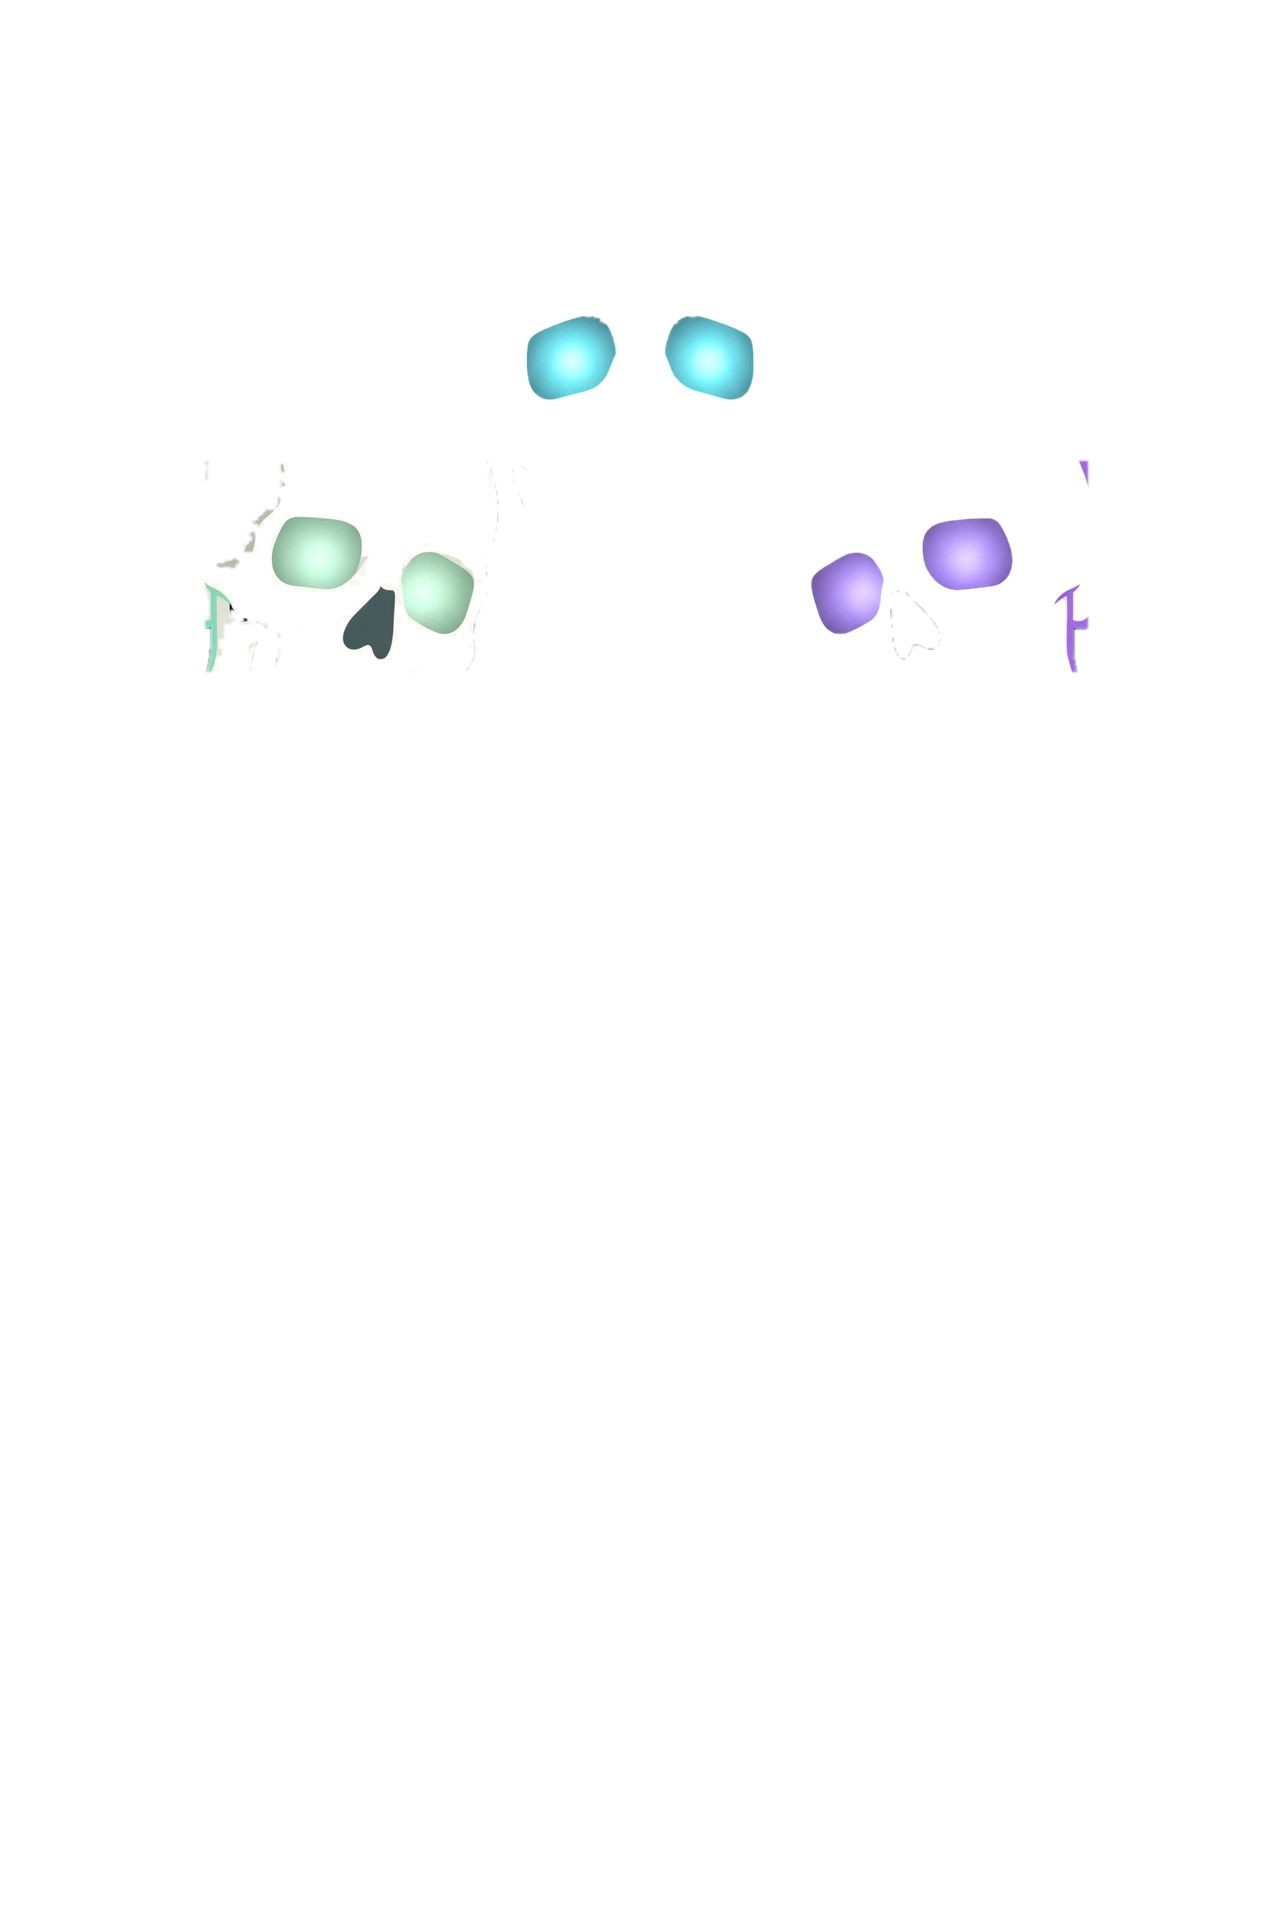
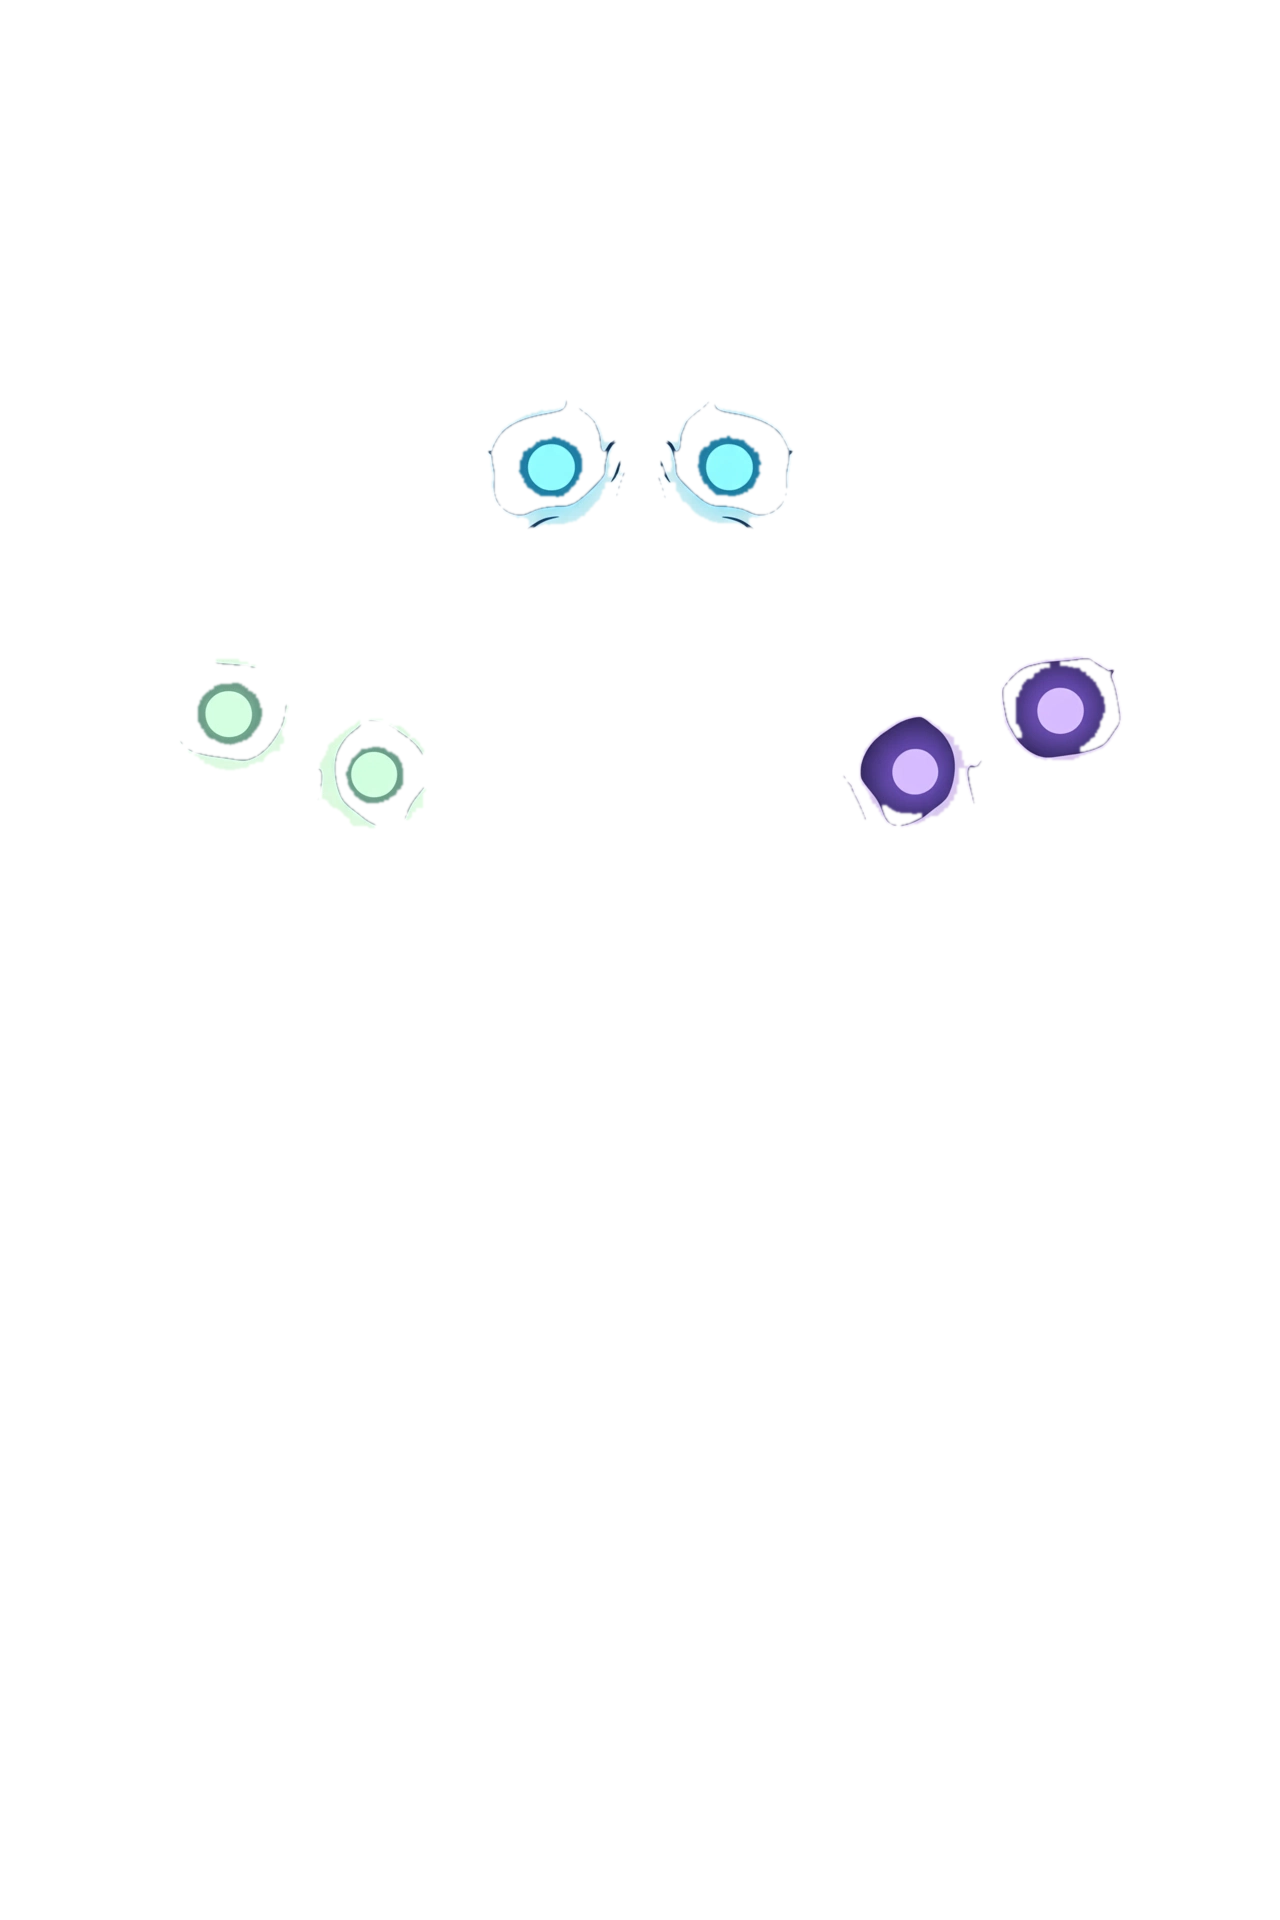
feat(skins): Skeleton Trio becomes busts — no whole bodies
Regenerated the trio plate as three big busts cropped at mid-torso:
skulls and glowing sockets are far larger, the center jaw visualizer
and ribcage seek get real room, spine volume rides the short
vertebra stub, playlist sits across the lower ribs. Same pipeline
(flood-filled alpha, segmented eye layer), CSS geometry re-measured
against the new plate. The full-body plate remains in history.

diff --git a/src/renderer/style.css b/src/renderer/style.css
@@ -1287,10 +1287,10 @@ input[type="range"]::-moz-range-thumb {
 }
 .skeleton-trio-skin .tr-eyes {
   position: absolute;
-  left: 10%;
-  top: 5%;
-  width: 76%;
-  height: 33%;
+  left: 3%;
+  top: 10%;
+  width: 94%;
+  height: 42%;
   padding: 0;
   background: transparent;
   border: none;
@@ -1306,20 +1306,20 @@ input[type="range"]::-moz-range-thumb {
   opacity: 0;
   transition: opacity 0.35s ease;
   background:
-    radial-gradient(circle at 24.5% 29.2%, rgba(150, 255, 205, 0.55), rgba(150, 255, 205, 0.15) 4%, transparent 7%),
-    radial-gradient(circle at 34.3% 30.3%, rgba(150, 255, 205, 0.55), rgba(150, 255, 205, 0.15) 4%, transparent 7%),
-    radial-gradient(circle at 45.2% 17.9%, rgba(110, 220, 255, 0.6), rgba(110, 220, 255, 0.16) 4.5%, transparent 7.5%),
-    radial-gradient(circle at 55.1% 17.9%, rgba(110, 220, 255, 0.6), rgba(110, 220, 255, 0.16) 4.5%, transparent 7.5%),
-    radial-gradient(circle at 65.8% 30.3%, rgba(185, 150, 255, 0.55), rgba(185, 150, 255, 0.15) 4%, transparent 7%),
-    radial-gradient(circle at 75.7% 29.2%, rgba(185, 150, 255, 0.55), rgba(185, 150, 255, 0.15) 4%, transparent 7%);
+    radial-gradient(circle at 17.8% 37.8%, rgba(150, 255, 205, 0.55), rgba(150, 255, 205, 0.15) 4.5%, transparent 8%),
+    radial-gradient(circle at 29.8% 39.8%, rgba(150, 255, 205, 0.55), rgba(150, 255, 205, 0.15) 4.5%, transparent 8%),
+    radial-gradient(circle at 43.2% 23.8%, rgba(110, 220, 255, 0.6), rgba(110, 220, 255, 0.16) 5%, transparent 8.5%),
+    radial-gradient(circle at 56.8% 23.8%, rgba(110, 220, 255, 0.6), rgba(110, 220, 255, 0.16) 5%, transparent 8.5%),
+    radial-gradient(circle at 70.5% 39.8%, rgba(185, 150, 255, 0.55), rgba(185, 150, 255, 0.15) 4.5%, transparent 8%),
+    radial-gradient(circle at 82.2% 37.8%, rgba(185, 150, 255, 0.55), rgba(185, 150, 255, 0.15) 4.5%, transparent 8%);
   z-index: 2;
 }
 .skeleton-trio-skin .tr-body:has(.tr-eyes.playing) .tr-eye-glow { opacity: 1; }
 .skeleton-trio-skin .tr-track-info {
   position: absolute;
-  left: 32%;
-  top: 36.4%;
-  width: 36%;
+  left: 33%;
+  top: 49.3%;
+  width: 34%;
   text-align: center;
   z-index: 3;
   pointer-events: none;
@@ -1345,10 +1345,10 @@ input[type="range"]::-moz-range-thumb {
 }
 .skeleton-trio-skin .tr-viz-panel {
   position: absolute;
-  left: 42.8%;
-  top: 25.6%;
-  width: 14.8%;
-  height: 9.4%;
+  left: 42.5%;
+  top: 33.5%;
+  width: 16%;
+  height: 11.5%;
   border-radius: 8px;
   background: rgba(5, 9, 15, 0.5);
   box-shadow: inset 0 0 14px rgba(0, 0, 0, 0.5);
@@ -1358,9 +1358,9 @@ input[type="range"]::-moz-range-thumb {
 .skeleton-trio-skin .tr-prev,
 .skeleton-trio-skin .tr-next {
   position: absolute;
-  top: 3%;
-  width: 20%;
-  height: 22%;
+  top: 2%;
+  width: 24%;
+  height: 26%;
   padding: 0;
   background: transparent;
   border: none;
@@ -1370,7 +1370,7 @@ input[type="range"]::-moz-range-thumb {
   -webkit-app-region: no-drag;
 }
 .skeleton-trio-skin .tr-prev { left: 0%; }
-.skeleton-trio-skin .tr-next { left: 80%; }
+.skeleton-trio-skin .tr-next { left: 76%; }
 .skeleton-trio-skin .tr-prev:hover,
 .skeleton-trio-skin .tr-next:hover {
   background: radial-gradient(circle, rgba(170, 230, 255, 0.22), transparent 72%);
@@ -1381,9 +1381,9 @@ input[type="range"]::-moz-range-thumb {
 }
 .skeleton-trio-skin .tr-seek-region {
   position: absolute;
-  left: 23%;
-  top: 49.6%;
-  width: 44%;
+  left: 24.5%;
+  top: 68.6%;
+  width: 48.5%;
   z-index: 4;
   -webkit-app-region: no-drag;
 }
@@ -1425,10 +1425,10 @@ input[type="range"]::-moz-range-thumb {
 }
 .skeleton-trio-skin .tr-spine-vol {
   position: absolute;
-  left: 46%;
-  top: 58.5%;
-  width: 8%;
-  height: 19.5%;
+  left: 45.5%;
+  top: 80.5%;
+  width: 9%;
+  height: 19%;
   cursor: grab;
   z-index: 4;
   -webkit-app-region: no-drag;
@@ -1464,10 +1464,10 @@ input[type="range"]::-moz-range-thumb {
 }
 .skeleton-trio-skin .tr-playlist {
   position: absolute;
-  left: 33.5%;
-  top: 76.5%;
-  width: 33%;
-  max-height: 10.5%;
+  left: 30%;
+  top: 73.5%;
+  width: 40%;
+  max-height: 6.5%;
   margin: 0;
   padding: 4px;
   list-style: none;

diff --git a/AGENTS.md b/AGENTS.md
@@ -74,7 +74,7 @@ Costume Contest: a haunting UI that is polished/unforgettable AND where the spoo
 - **Image frame + separated mechanism — 2026-11-09 (Lan's direction, supersedes the hand-drawn SVG silhouette for Dracula):** the approved artwork itself is the frame. A text-free edit of the reference ships as `src/renderer/assets/dracula-frame.webp`, clipped to the character outline via CSS `clip-path`; each painted element is a live overlay control — eyes = play/pause hotspot + playing glow, blood line = seek (transparent track, drip thumb), medallion = volume (drag / wheel / arrow keys; a gold orbit dot circles it to show the value), cape interior = live visualizer over a settling panel, fangs = prev/next hotspots, real title + playlist rendered over the art. Hotspot coordinates were verified by compositing the control boxes over the plate. Lesson earned the same day: match the approved reference's proportions, not just its ingredient list — a from-scratch SVG redraw read as "lame" next to the generated art.
 - **Separated element layers — 2026-11-09:** the plate's eyes, medallion and fangs are now real transparent layers (`src/renderer/assets/dracula-*.png`, full-canvas so they stack pixel-exact), extracted by color segmentation (SAM was attempted first; the PyTorch download is proxy-blocked in the build sandbox, and for flat art the color masks are crisper anyway). The medallion is erased from the shipped plate (stretch-inpaint) so the extracted layer genuinely rotates with volume; eye layers pulse via CSS filter while playing; fang layers glow when their hotspot is hovered/pressed. Layers recombine over the cleaned plate pixel-identical to the original art (verified by composite).
 - **True transparency — 2026-11-09:** the plate's baked-in dark backdrop survived the hand-traced CSS `clip-path` as a faint square around the character (Lan spotted it on Windows). Fix: the backdrop is flood-filled out of the plate itself (the gold trim is a closed boundary; backdrop = neutral grey connected to the image borders), so `dracula-frame.webp` now carries a real alpha channel and the `clip-path` is gone. Verified by compositing the plate on white and bright teal — clean character edge, no rectangle. Lesson: never approximate an outline with a polygon when the art can carry its own alpha.
-- **Skin #4: Skeleton Trio — 2026-11-09 (Lan's pick, one skin with three skeletons):** three skeletons shoulder-to-shoulder as one frame; all six eye sockets (mint / cyan / violet) are one separated layer + one wide play/pause hotspot; the CENTER skeleton carries the jaw visualizer, ribcage seek and spine volume (same vertical mechanism as solo Skeleton); the raised outer hands at the top corners are prev/next; playlist in the center pelvis. Note: its rib-gap pockets are sealed by the overlapping bodies, so the flood fill leaves them as dark backing inside the cages — reads as shadow, accepted.
+- **Skin #4: Skeleton Trio — 2026-11-09 (Lan's pick, one skin with three skeletons):** three skeletons shoulder-to-shoulder as one frame; all six eye sockets (mint / cyan / violet) are one separated layer + one wide play/pause hotspot; the CENTER skeleton carries the jaw visualizer, ribcage seek and spine volume (same vertical mechanism as solo Skeleton); the raised outer hands at the top corners are prev/next. **Revised to BUSTS the same day (Lan: "no need the whole body"):** the shipped plate is three big busts cropped at mid-torso — skulls and sockets much larger, seek across the center ribs, spine volume on the short vertebra stub below the ribs, playlist across the lower ribs. The full-body version exists only in git history (`ccd82196`). Note: rib-gap pockets sealed by overlapping bodies stay as dark backing inside the cages — reads as shadow, accepted.
 - **All three skins image-frame — 2026-11-09:** Frankenstein and Skeleton got the full Dracula treatment — generated character art (text-free on the first pass this time), backdrop flood-filled to alpha, element layers separated by color segmentation. Frankenstein: forehead EQ = visualizer panel, eyes = play/pause (layers pulse), neck bolts = prev/next, chest scar = seek, brass dial in the hand = volume (dial erased from the plate via a palm-gradient fill and the layer rotates; two erase lessons — a horizontal-stretch inpaint smears when neighbours aren't uniform, and any erase zone must sit inside the flood-fill's protected region or the fill eats it). Skeleton: eye sockets = play/pause, jaw gap = visualizer, ribcage line = seek, spine = VERTICAL volume (drag up/down; a glow fill + dot travel the vertebrae), bony hands = prev/next; the gaps between its bones are genuinely see-through, and the baked seek line's stubs outside the ribcage were alpha-clipped. All hotspot geometry verified by compositing the CSS boxes over the plates; the dial rotation was verified ghost-free.
 
 ## Open decisions
